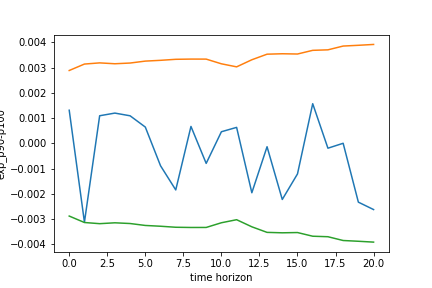
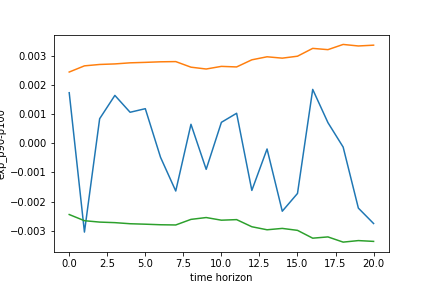
Formatting changes

diff --git a/analysis/7_LP_estimation.py b/analysis/7_LP_estimation.py
@@ -38,9 +38,12 @@ exp_90.index = range(len(exp_90))
 exp_90 = exp_90[:158]
 
 
-shock_series = pd.read_excel(
-    "../original_data/Shocks_data/RR_MPshocks_Updated.xls", sheet_name="Sheet1"
-)*100
+shock_series = (
+    pd.read_excel(
+        "../original_data/Shocks_data/RR_MPshocks_Updated.xls", sheet_name="Sheet1"
+    )
+    * 100
+)
 
 
 # shock_series = pd.concat(
@@ -50,12 +53,12 @@ shock_series = pd.read_excel(
 # create data frame of regressors (don't changes with horizon h) for each ineq. measure
 
 X = {}
-for k in [stdev, gini_coeff, p90_p10,exp_10,exp_90]:
+for k in [stdev, gini_coeff, p90_p10, exp_10, exp_90]:
     X[k.name] = pd.DataFrame()
     X[k.name]["const"] = np.ones(len(shock_series))
-    for i in range(5):
+    for i in range(10):
         X[k.name]["rr_L" + str(i)] = shock_series["Shock_values"].shift(i)
-    for j in range(1, 3):
+    for j in range(1, 5):
         X[k.name]["dy_" + str(j)] = k.shift(j) - k.shift(j + 1)
 
 
@@ -67,7 +70,7 @@ irf_st_dev = pd.DataFrame()
 irf_pval = pd.DataFrame()
 
 
-for k in [stdev, gini_coeff, p90_p10,exp_10,exp_90]:
+for k in [stdev, gini_coeff, p90_p10, exp_10, exp_90]:
     for h in range(21):
         y = k.shift(-h) - k.shift(-(h - 1))
         reg = sm.OLS(endog=y, exog=X[k.name], missing="drop").fit()
@@ -75,8 +78,8 @@ for k in [stdev, gini_coeff, p90_p10,exp_10,exp_90]:
         irf_st_dev.loc[h, k.name] = reg.bse[1]
         irf_pval.loc[h, k.name] = reg.pvalues[1]
     plt.plot(irf_values[k.name], label="irf")
-    plt.plot(2 * irf_st_dev[k.name], label="2_st_dev_up")
-    plt.plot(-2 * irf_st_dev[k.name], label="2_st_dev_down")
+    plt.plot(1.65 * irf_st_dev[k.name], label="2_st_dev_up")
+    plt.plot(-1.65 * irf_st_dev[k.name], label="2_st_dev_down")
     plt.xlabel("time horizon")
     plt.ylabel(k.name)
     plt.savefig("../out_figures/" + k.name)
